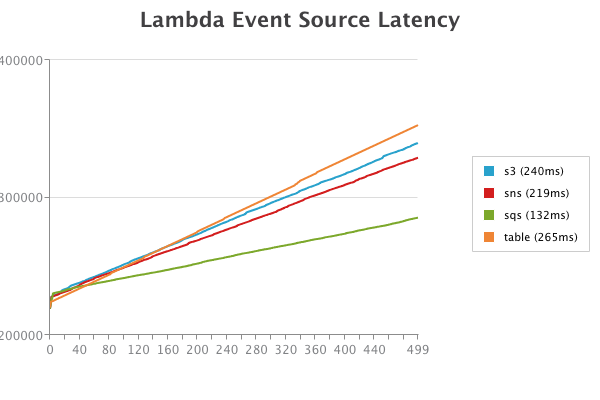
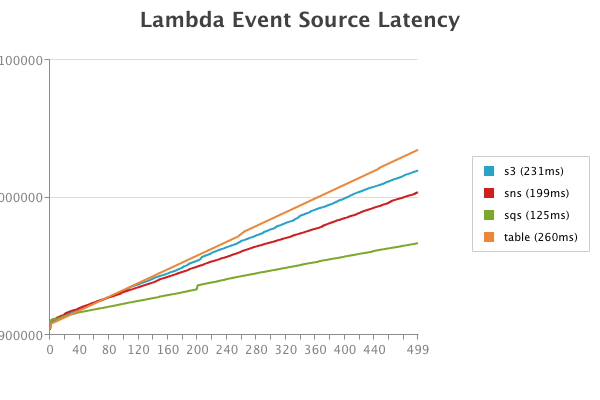
Updates

diff --git a/README.md b/README.md
@@ -7,9 +7,10 @@ I was idly curious about these questions and couldn't find good data to answer t
 For each event source, we create an event handler Lambda which just writes a message back to the event source, which in turn should trigger the next event.  Each time, the message in the event is incremented, until a limit (500 in the graph below) is reached at which point the process stops.  This process is serial for each event source.  
 
 Qualitative results:
-* SQS is consistently meaningfuly faster than other event sources, with ~130ms of time elapsed between events.
+* SQS is consistently meaningfuly faster than other event sources, with ~125ms of time elapsed between events
 * SNS, S3 and DynamoDB are all suprisingly close, but consistently rank in that order in terms of latency
-* Initial startup time sees a Lambda cold-start hit, but after that we do not see anything big enough to be a Lambda cold-start hit, so in-line with expectations it appears Lambda is resusing a single instance of each handler across serial invocations.
+* There are slight hiccups perdiocially for each event source, though SQS is in general very consistent (flat) and S3 is generally rather inconsistent (wavy)
+* Initial startup time sees a Lambda cold-start hit, but after that we do not see anything big enough to be a Lambda cold-start hit so, in-line with expectations, it appears Lambda is resusing a single instance of each handler across serial invocations.
 
 ![Lambda Latency](./chart.png)
 
